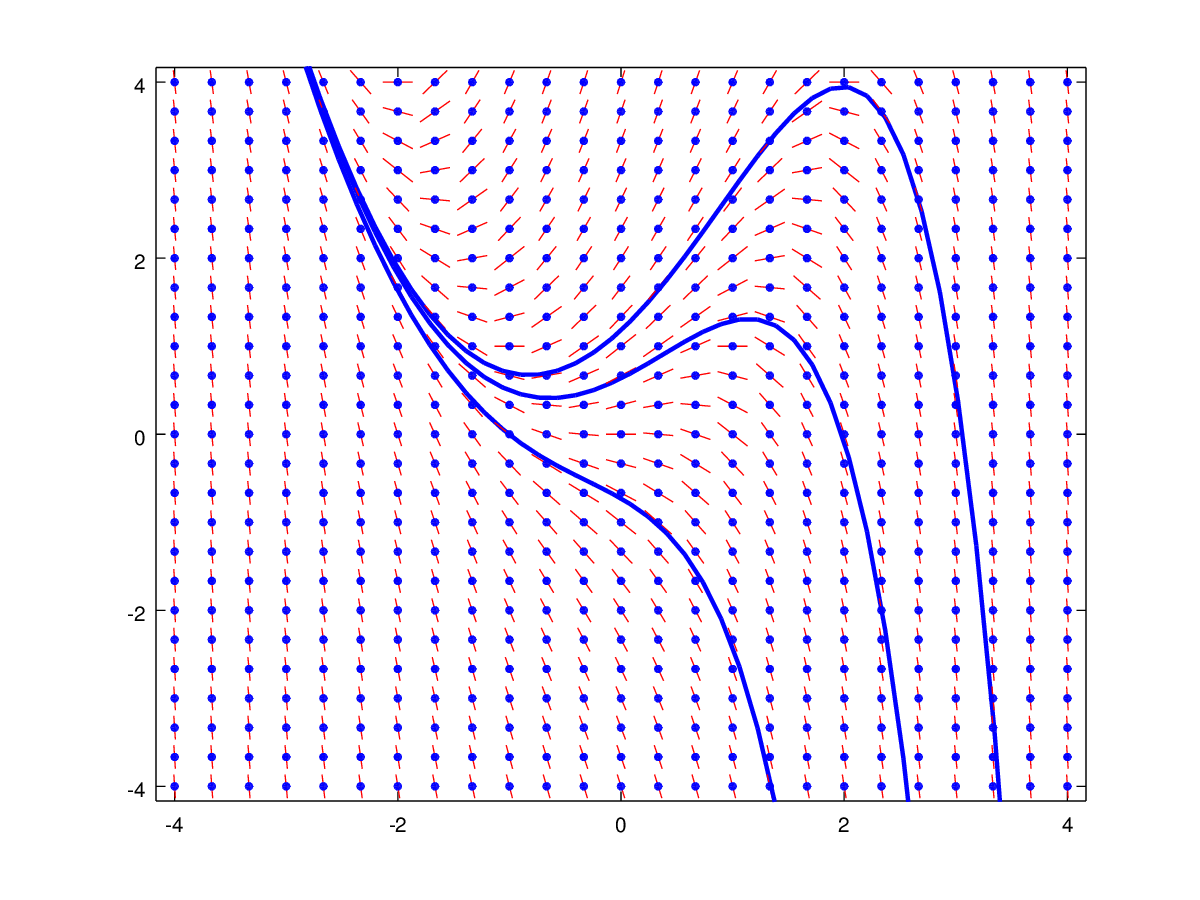
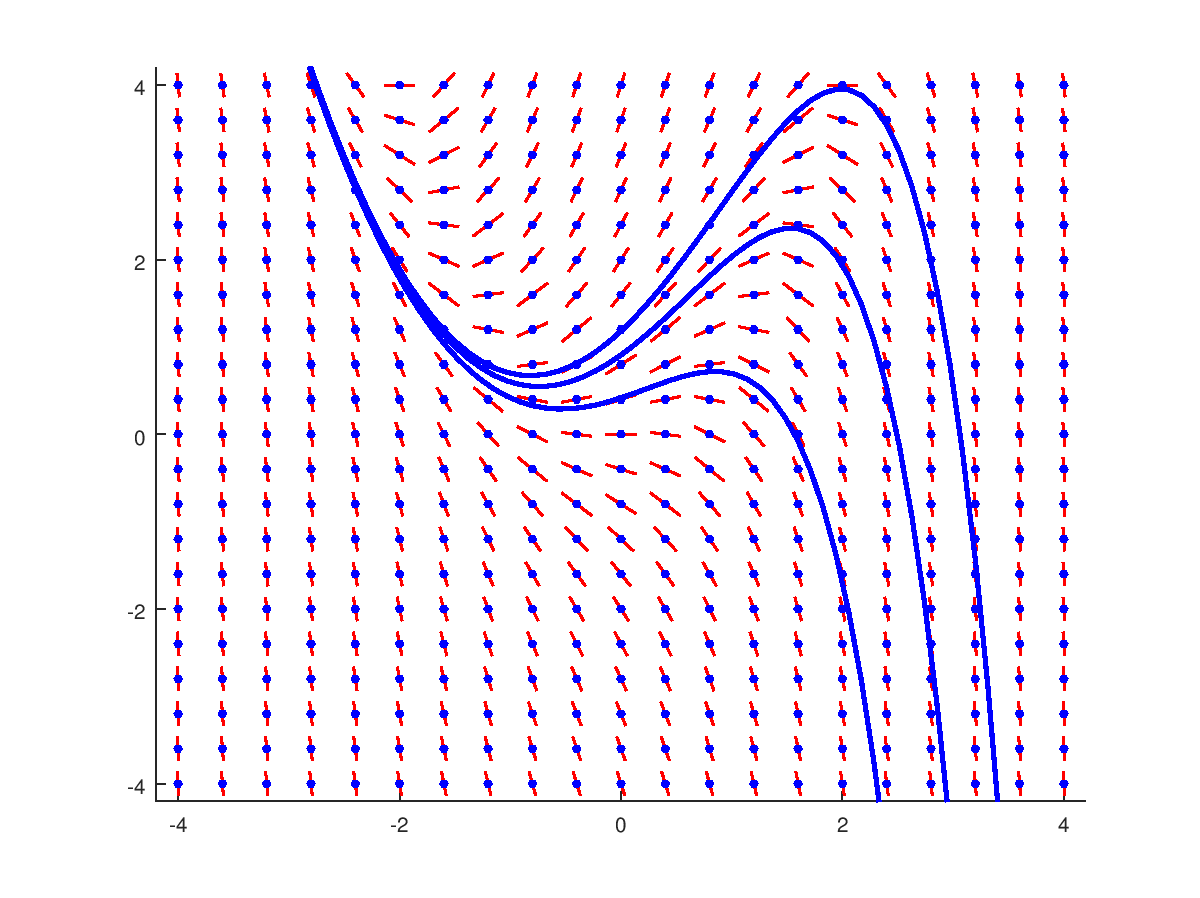
more changes

Changed region(s): [[0.0925, 0.0624, 0.8942, 0.9354]]

diff --git a/dirfield-example.m b/dirfield-example.m
@@ -1,3 +1,8 @@
+#
+# dirfield-example.m
+#
+# Copyright 2015 2016 2017 2018 by John Gambini
+#
 close all; clc; clear all;
 
 function xdot = f1(t,y)
@@ -8,15 +13,15 @@ f2 = inline('-y.^2+t','t','y');
 
 #f = @(t,y) -y^2+t;
 
-tval = -3:.2:3;
+tval = -4:.2:2;
 yval = -2:.2:2;
 
 slopefield("f1", tval, -2:.2:2)
 
 hold on;
 
-[x,y] = ode45("f1",tval,0.01);
+[x,y] = ode45("f1",tval,0.02);
 plot(x,y,'linewidth',2);
 
-[x,y] = ode45("f1",tval,-0.01);
+[x,y] = ode45("f1",tval,-0.02);
 plot(x,y,'linewidth',2);

diff --git a/y-x^2.m b/y-x^2.m
@@ -1,0 +1,29 @@
+#
+# y-x^2.m
+#
+# Copyright 2015 2016 2017 2018 by John Gambini
+#
+close all; clc; clear all;
+
+function xdot = f1(t,y)
+  xdot = y-t.^2;
+endfunction
+
+tval = yval = linspace(-4,4,21);
+
+slopefield("f1", tval, yval);
+
+hold on;
+
+tval = linspace(-4,4,71);
+
+[x,y] = ode45("f1",tval,9.9850);
+plot(x,y,'linewidth',2,'b');
+
+[x,y] = ode45("f1",tval,9.9800);
+plot(x,y,'linewidth',2,'b');
+
+[x,y] = ode45("f1",tval,9.9710);
+plot(x,y,'linewidth',2,'b');
+
+#print -dpng y-x2.png
